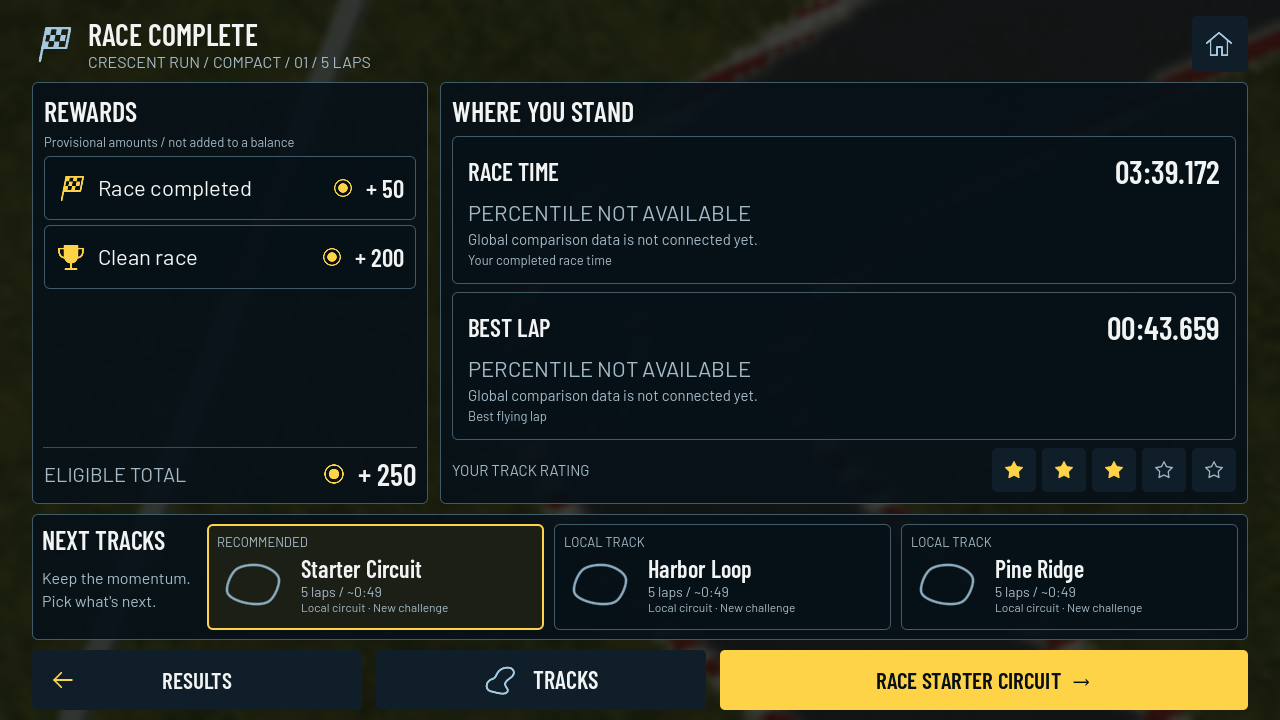
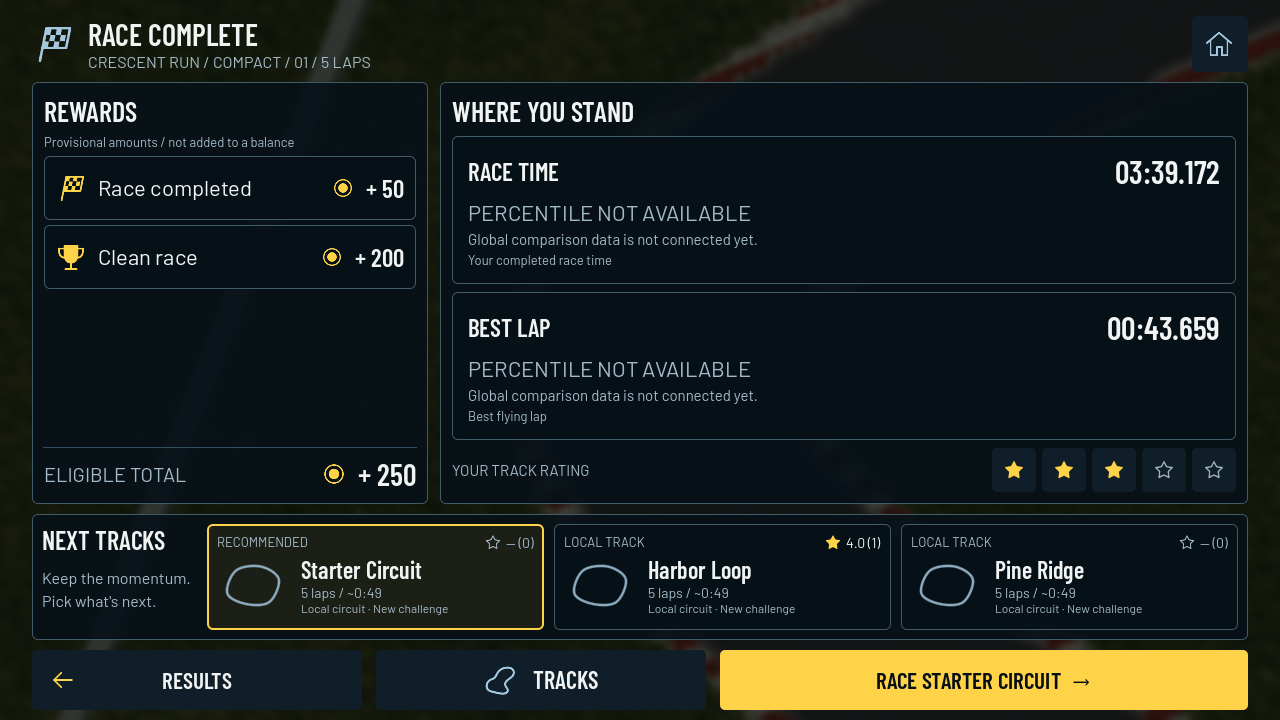
Show local track ratings on race complete recommendations

diff --git a/docs/TRACK_RATINGS.md b/docs/TRACK_RATINGS.md
@@ -1,5 +1,13 @@
 # Personal track ratings — 2026-09-23
 
+## Race Complete recommendation ratings — 2026-09-24
+
+Owner request / R01, V03, V05, Q01: every Next Tracks card now shows its saved personal rating and local vote count beside the category. Filled gold star and `4.0 (1)` indicate a rated track; an outline star and `— (0)` indicate an unrated track. Uses each recommended entry's identity, matching the Play gallery. Tooltips identify votes as local to this device. Online aggregate ratings remain unconnected.
+
+Changed files: `game/ui/race_complete.gd`, `game/tests/test_race_results.gd` (isolated rated/unrated capture fixture), this document and the status/phase logs. Existing card height is preserved. An initial additional-row layout failed three viewport-fit checks and was replaced with the compact header badge.
+
+Validation: `powershell -NoProfile -ExecutionPolicy Bypass -File scripts/dev.ps1 -Action CaptureResults` — 204 checks, zero failures at 1280×720, 1920×1080 and 2400×1080. [Race Complete evidence](evidence/race-results/race-complete-1280x720.png) inspected on desktop. No phone test or Android export performed; phone readability/touch and owner visual acceptance remain pending.
+
 Requirements: owner request; R01 (local persistence), V03/V05 (responsive menu UI), Q01 (regression evidence). Personal local ratings are authorized by this request; online aggregate ratings remain deferred.
 
 Owner correction: offer the rating directly on the on-track Race Complete screen, not as a Results popup. After 0.75 seconds, a black-and-gold rating section fades in beneath the existing sign over 0.25 seconds. Unrated finishes wait for a star, Skip, or tap-to-continue; already-rated finishes retain their existing automatic transition. A star saves immediately and continues to Results. Skip writes nothing and allows another prompt after a later race. Already-rated track identities are suppressed across cars, physics versions and application restarts. Retry/navigation guards prevent a delayed prompt appearing during another race. Editor practice does not prompt.
